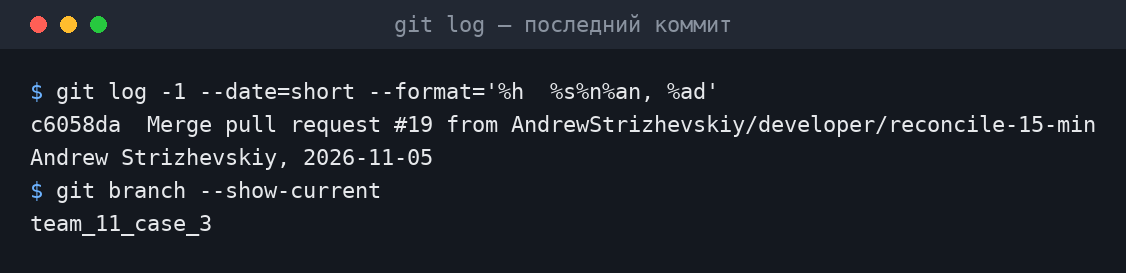
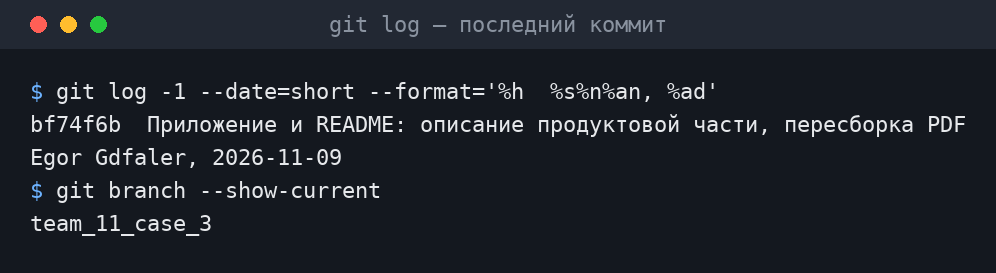
Скриншот последнего коммита: актуальный коммит ветки сдачи; приложение пересобрано
- commit.png пересоздан скриптом, показывает bf74f6b на team_11_case_3
- make_screenshots.py: шрифт можно задать через SHOT_FONT

diff --git a/docs/screenshots/make_screenshots.py b/docs/screenshots/make_screenshots.py
@@ -18,8 +18,9 @@ from PIL import Image, ImageColor, ImageDraw, ImageFont
 
 HERE = os.path.dirname(os.path.abspath(__file__))
 ROOT = os.path.abspath(os.path.join(HERE, "..", ".."))
-FONT = "/usr/share/fonts/truetype/dejavu/DejaVuSansMono.ttf"
-FONT_BOLD = "/usr/share/fonts/truetype/dejavu/DejaVuSansMono-Bold.ttf"
+# шрифт можно задать вручную (macOS): SHOT_FONT=/путь/DejaVuSansMono.ttf SHOT_FONT_BOLD=/путь/DejaVuSansMono-Bold.ttf
+FONT = os.environ.get("SHOT_FONT", "/usr/share/fonts/truetype/dejavu/DejaVuSansMono.ttf")
+FONT_BOLD = os.environ.get("SHOT_FONT_BOLD", "/usr/share/fonts/truetype/dejavu/DejaVuSansMono-Bold.ttf")
 SIZE, PAD, BAR, COLS = 22, 30, 48, 112
 
 BG, BAR_BG, FG = "#14181F", "#222833", "#E6E8EB"
